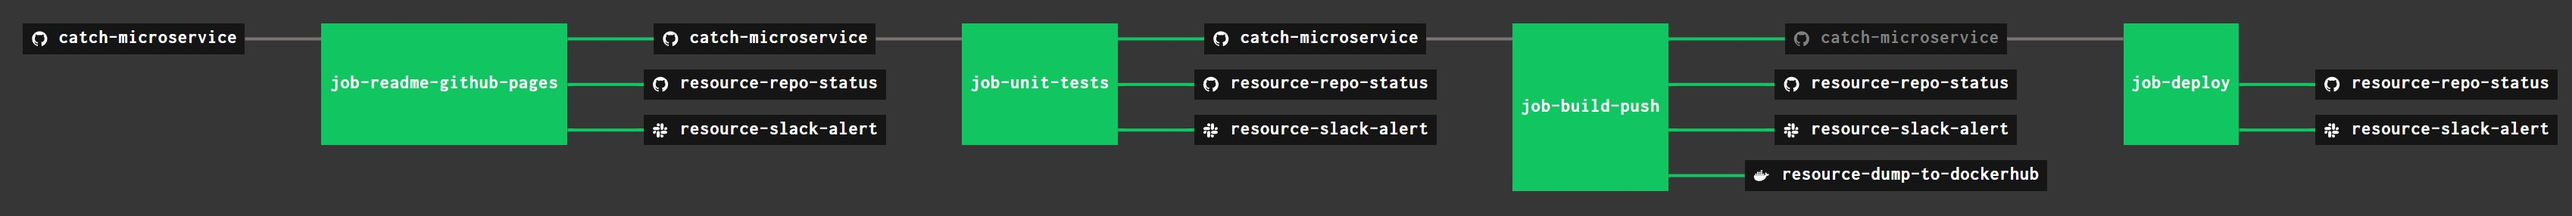
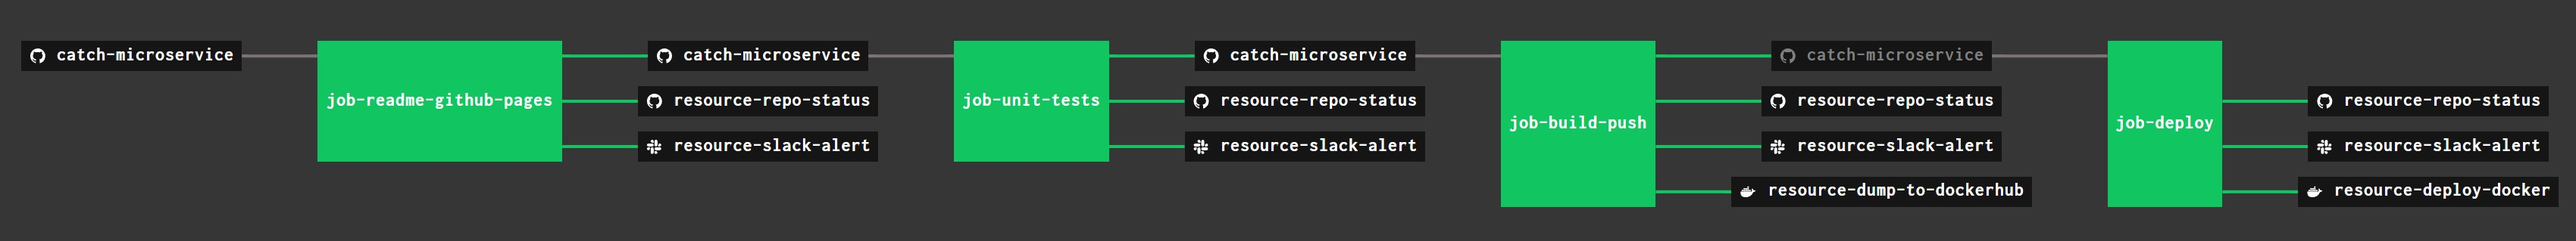
updated concourse ci README and added a ci pipeline pic

Changed region(s): [[0.0, 0.0839, 0.9988, 0.8951]]

diff --git a/ci-README.md b/ci-README.md
@@ -47,6 +47,9 @@ The concourse `resources types` are,
 * `resource-dump-to-dockerhub` uses a resource type
   [docker-image](https://hub.docker.com/r/concourse/docker-image-resource/)
   to PUSH a docker image to dockerhub.
+* `resource-deploy-docker` uses a resource type
+  [docker-image](https://hub.docker.com/r/jeffdecola/concourse-deploy-docker-resource/)
+  to DEPLOY a docker image to docker.
 * `resource-slack-alert` uses a resource type
   [docker image](https://hub.docker.com/r/cfcommunity/slack-notification-resource)
   that will notify slack on your progress
